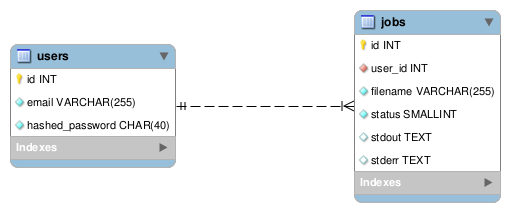
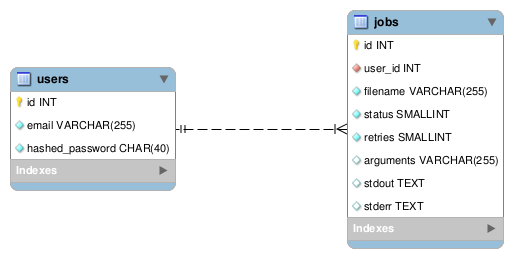
Add support for jobs arguments and retries.

Changed region(s): [[0.0, 0.0283, 1.0, 0.9906], [0.0294, 0.4528, 0.2647, 0.5094]]

diff --git a/paas_manager/app/templates/index.html b/paas_manager/app/templates/index.html
@@ -20,14 +20,18 @@
 		<table class="table table-striped top-buffer">
 			<tbody>
 				<tr>
-					<th>id</th>
+					<th>Id</th>
 					<th>ファイル名</th>
+          <th>引数</th>
+          <th>Try No</th>
 					<th>状態</th>
 				</tr>
       {% for job in jobs %}
 				<tr>
           <td>{{ job.id }}</td>
 					<td>{{ job.filename }}</td>
+          <td>{{ job.arguments }}</td>
+          <td>{{ job.retries }}</td>
 					<td>{{ job.human_status() }}</td>
 				</tr>
       {% endfor %}

diff --git a/paas_manager/queue_manager/manager.py b/paas_manager/queue_manager/manager.py
@@ -1,6 +1,7 @@
 from kazoo.client import KazooClient
 from kazoo.recipe.queue import LockingQueue
 import threading
+import logging as log
 
 from .. import config
 from ..app.hadoop_modules import HadoopModules
@@ -25,7 +26,14 @@ class Manager:
 
         self.lock = self.zk.Lock('/settings/lock', 'lock')
 
-        self._try_execute_job()
+        self._start_polling()
+
+    def _start_polling(self):
+        t = threading.Thread(
+            target=self._try_execute_job,
+            daemon=True
+        )
+        t.start()
 
     def _try_execute_job(self):
         if not self._terminated:
@@ -33,6 +41,8 @@ class Manager:
             self.execute_next_job()
 
     def enqueue_job(self, job):
+        if job.id is None:
+            return
         success = False
         with self.lock:
             node = "/jobs/{0}".format(job.id)
@@ -41,6 +51,7 @@ class Manager:
                 self.zk.create(node + "/jar_path", job.file_full_path().encode())
                 self.zk.create(node + "/retries", '0'.encode())
                 success = True
+                log.info("Enqueued job {0}".format(job.id))
         return success
 
     def execute_next_job(self):
@@ -55,7 +66,9 @@ class Manager:
             if self._check_retries(next_job_id):
                 return self.execute_job(next_job_id, False)
             else:
+                Jobs.update_entity(next_job_id, status=Jobs.FAILED)
                 self._delete_job(next_job_id)
+                log.info("Removing job {0} after 3 failures".format(next_job_id))
         self.execute_next_job()
 
     def _delete_job(self, id):
@@ -72,23 +85,25 @@ class Manager:
         else:
             self.execute_job_no_lock(id)
 
-    def hadoop_callback(self, job_id, stdout, stderr):
+    def hadoop_callback(self, job_id, return_code, stdout, stderr):
         job = Jobs.find(job_id)
         if job:
-            job.finish(stdout, stderr)
+            job.update(stdout=stdout, stderr=stderr)
         with self.lock:
             self._set_running(False)
-            self._delete_job(job_id)
+            if return_code == 0:
+                job.update(status=Jobs.FINISHED)
+                self._delete_job(job_id)
 
     def execute_job_no_lock(self, id):
+        log.info("Executing job {0}".format(id))
         self._set_running(True)
         self._increase_retries(id)
         job = Jobs.find(id)
-        if job:
-            job.update(status=Jobs.RUNNING)
+        job.update_entity(id, status=Jobs.RUNNING)
         path, _ = self.zk.get("/jobs/{0}/jar_path".format(id))
-        callback = lambda out, err: self.hadoop_callback(id, out, err)
-        self.hadoop.start_hadoop(path.decode(), ["pi", "10", "10"], callback)
+        callback = lambda ret, out, err: self.hadoop_callback(id, ret, out, err)
+        self.hadoop.start_hadoop(path.decode(), job.arguments_list(), callback)
 
     def _set_running(self, is_running):
         value = ('true' if is_running else 'false').encode()
@@ -102,4 +117,5 @@ class Manager:
         key = "/jobs/{0}/retries".format(id)
         retries, _ = self.zk.get(key)
         new_retries = int(retries.decode()) + 1
+        Jobs.update_entity(id, retries=new_retries)
         self.zk.set(key, str(new_retries).encode())

diff --git a/paas_manager/app/views.py b/paas_manager/app/views.py
@@ -8,12 +8,6 @@ from .forms import RegistrationForm, JobCreationForm
 from .auth import current_user, user_signed_in
 from . import queue_manager
 
-ALLOWED_EXTENSIONS = set(['txt', 'pdf', 'png', 'jpg', 'jpeg', 'gif', 'jar'])
-
-
-def allowed_file(filename):
-    return '.' in filename and filename.rsplit('.', 1)[1] in ALLOWED_EXTENSIONS
-
 
 def needs_authentication(fn):
     def wrapped(*args, **kwargs):
@@ -31,7 +25,8 @@ def index(job_form=None):
         job_form = JobCreationForm(request.form)
     jobs = []
     if user_signed_in():
-        jobs = Jobs.query(user_id=current_user().id)
+        options = {'order': 'id desc'}
+        jobs = Jobs.query(user_id=current_user().id, _options=options)
     return render_template("index.html", jobs=jobs, job_form=job_form)
 
 
@@ -40,9 +35,8 @@ def index(job_form=None):
 def upload():
     job_form = JobCreationForm()
     if request.method == 'POST' and job_form.validate_on_submit():
-        f = request.files['jar_file']
-        job = Jobs.create(user_id=current_user().id, filename=f.filename)
-        job.save_file(f)
+        args = request.form['arguments']
+        job = Jobs.submit(current_user().id, request.files['jar_file'], args)
         queue_manager.enqueue_job(job)
         #gmail(file.filename, email)
         flash('ジョブが提出されました。', 'success')

diff --git a/paas_manager/app/models/jobs.py b/paas_manager/app/models/jobs.py
@@ -10,9 +10,17 @@ class Jobs(DatabaseConnector):
     WAITING = 0
     RUNNING = 1
     FINISHED = 2
+    FAILED = 3
 
-    def finish(self, stdout, stderr):
-        self.update(stdout=stdout, stderr=stderr, status=Jobs.FINISHED)
+    @classmethod
+    def submit(cls, user_id, jar_file, args):
+        job = cls.create(
+            user_id=user_id,
+            filename=jar_file.filename,
+            arguments=args
+        )
+        job.save_file(jar_file)
+        return job
 
     def file_full_path(self):
         if not hasattr(self, 'filename'):
@@ -34,5 +42,11 @@ class Jobs(DatabaseConnector):
         return {
             Jobs.WAITING: '待機中',
             Jobs.RUNNING: '実行中',
-            Jobs.FINISHED: '完了'
+            Jobs.FINISHED: '完了',
+            Jobs.FAILED: '失敗'
         }[self.status]
+
+    def arguments_list(self):
+        if not hasattr(self, 'arguments') or self.arguments is None:
+            return []
+        return self.arguments.split(' ')

diff --git a/test/test_hadoopmodules.py b/test/test_hadoopmodules.py
@@ -15,7 +15,8 @@ class Test_HadoopModules(unittest.TestCase):
         jar_path = "path"
         args = []
 
-        def callback(out, err):
+        def callback(ret, out, err):
+            self.assertEqual(0, ret)
             self.assertEqual(out, "fin\n")
             self.assertEqual(err, "err\n")
 
@@ -25,14 +26,16 @@ class Test_HadoopModules(unittest.TestCase):
 
     def test_exec_hadoop(self):
 
-        def callback(out, err):
+        def callback(ret, out, err):
+            self.assertEqual(0, ret)
             self.assertEqual(out, "fin\n")
             self.assertEqual(err, "err\n")
 
         self.hadoopModules.exec_hadoop(self.command, callback)
 
     def test_duplicate_threads(self):
-        def callback(out, err):
+        def callback(ret, out, err):
+            self.assertEqual(0, ret)
             self.assertEqual(out, "fin\n")
             self.assertEqual(err, "err\n")
         command = [self.mock_path]

diff --git a/paas_manager/app/models/database_connector.py b/paas_manager/app/models/database_connector.py
@@ -59,6 +59,10 @@ class DatabaseConnector():
             query_template += " where {conditions}"
             args += tuple(conditions.values())
 
+        if 'order' in options:
+            # FIXME: strange behavior with prepared query
+            query_template += " order by " + options['order']
+
         if 'limit' in options:
             query_template += " limit %s"
             args += (options['limit'],)
@@ -109,6 +113,14 @@ class DatabaseConnector():
         query_template = "delete from {table}"
         query = query_template.format(table=cls.table)
         cls.cursor.execute(query)
+
+    @classmethod
+    def update_entity(cls, id, **kwargs):
+        entity = cls.find(id)
+        if entity:
+            entity.update(**kwargs)
+            return entity
+        return None
 
     def update(self, **kwargs):
         for k, v in kwargs.items():

diff --git a/paas_manager/__init__.py b/paas_manager/__init__.py
@@ -1,2 +1,25 @@
+import logging
+import os
+
 from .settings import config
 from paas_manager.app import app
+
+
+root_logger = logging.getLogger()
+log_formatter = logging.Formatter("%(asctime)s [%(threadName)-12.12s] [%(levelname)-5.5s]  %(message)s")
+root_logger.setLevel(getattr(logging, config['logging']['level']))
+console_handler = logging.StreamHandler()
+console_handler.setFormatter(log_formatter)
+root_logger.addHandler(console_handler)
+
+requests_log = logging.getLogger("kazoo")
+requests_log.setLevel(logging.WARNING)
+
+
+if 'filename' in config['logging']:
+    log_dir = os.path.dirname(config['logging']['filename'])
+    if not os.path.exists(log_dir):
+        os.mkdir(log_dir)
+    file_handler = logging.FileHandler(config['logging']['filename'])
+    file_handler.setFormatter(log_formatter)
+    root_logger.addHandler(file_handler)

diff --git a/paas_manager/app/hadoop_modules.py b/paas_manager/app/hadoop_modules.py
@@ -53,7 +53,7 @@ class HadoopModules(metaclass=Singleton):
         p = subprocess.Popen(
             command, stdout=subprocess.PIPE, stderr=subprocess.PIPE)
         out, err = p.communicate()
-        callback(bytes.decode(out), bytes.decode(err))
+        callback(p.returncode, bytes.decode(out), bytes.decode(err))
 
     def _get_output_path(self, path):
         prefix = datetime.now().isoformat().replace(':', '-').replace('.', '')

diff --git a/test/test_jobs.py b/test/test_jobs.py
@@ -35,7 +35,7 @@ class TestJobs(unittest.TestCase):
         self.assertEqual(Jobs.RUNNING, self.job.status)
 
     def test_status_finished(self):
-        self.job.finish('stdout', 'stderr')
+        self.job.update(stdout='stdout', stderr='stderr', status=Jobs.FINISHED)
         self.assertEqual(self.job.status, Jobs.FINISHED)
 
     def test_remove(self):

diff --git a/paas_manager/app/__init__.py b/paas_manager/app/__init__.py
@@ -1,9 +1,10 @@
 from flask import Flask
 from os import mkdir
-from os.path import expanduser, exists
+from os.path import expanduser, exists, dirname
 import sys
 from kazoo.handlers.threading import TimeoutError
 import signal
+import logging
 
 from ..settings import config
 from .util import StreamConsumingMiddleware
